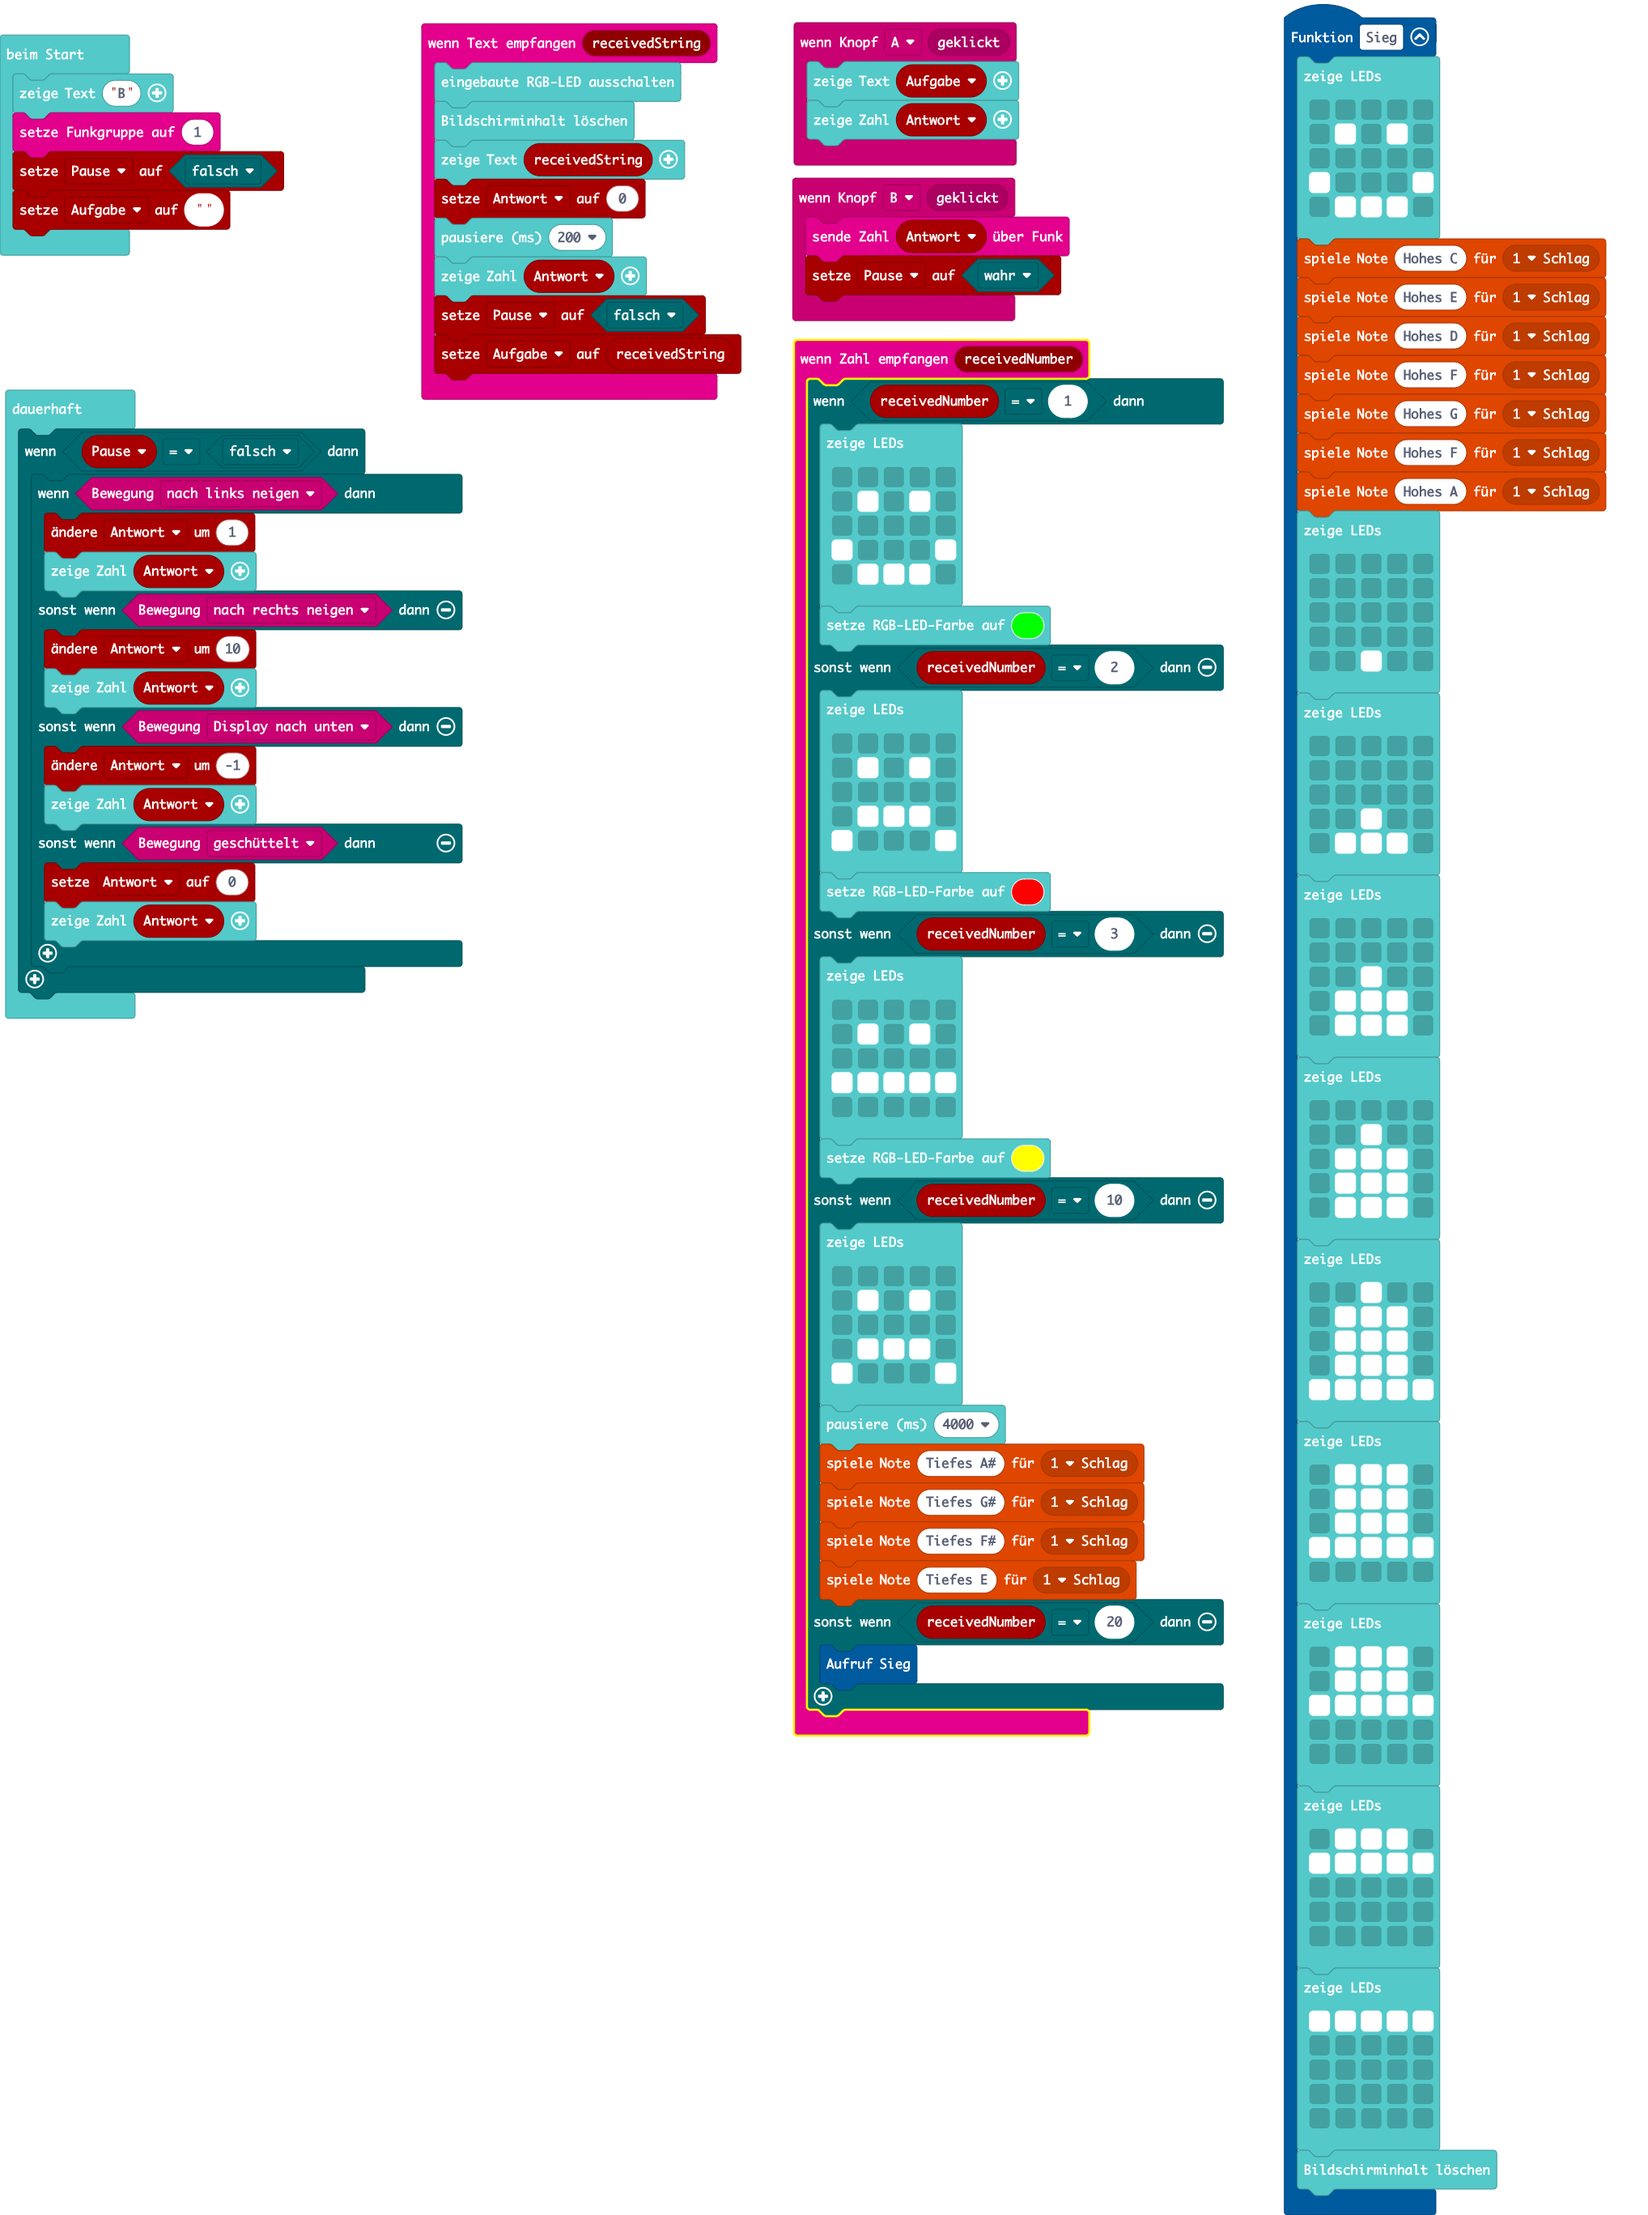
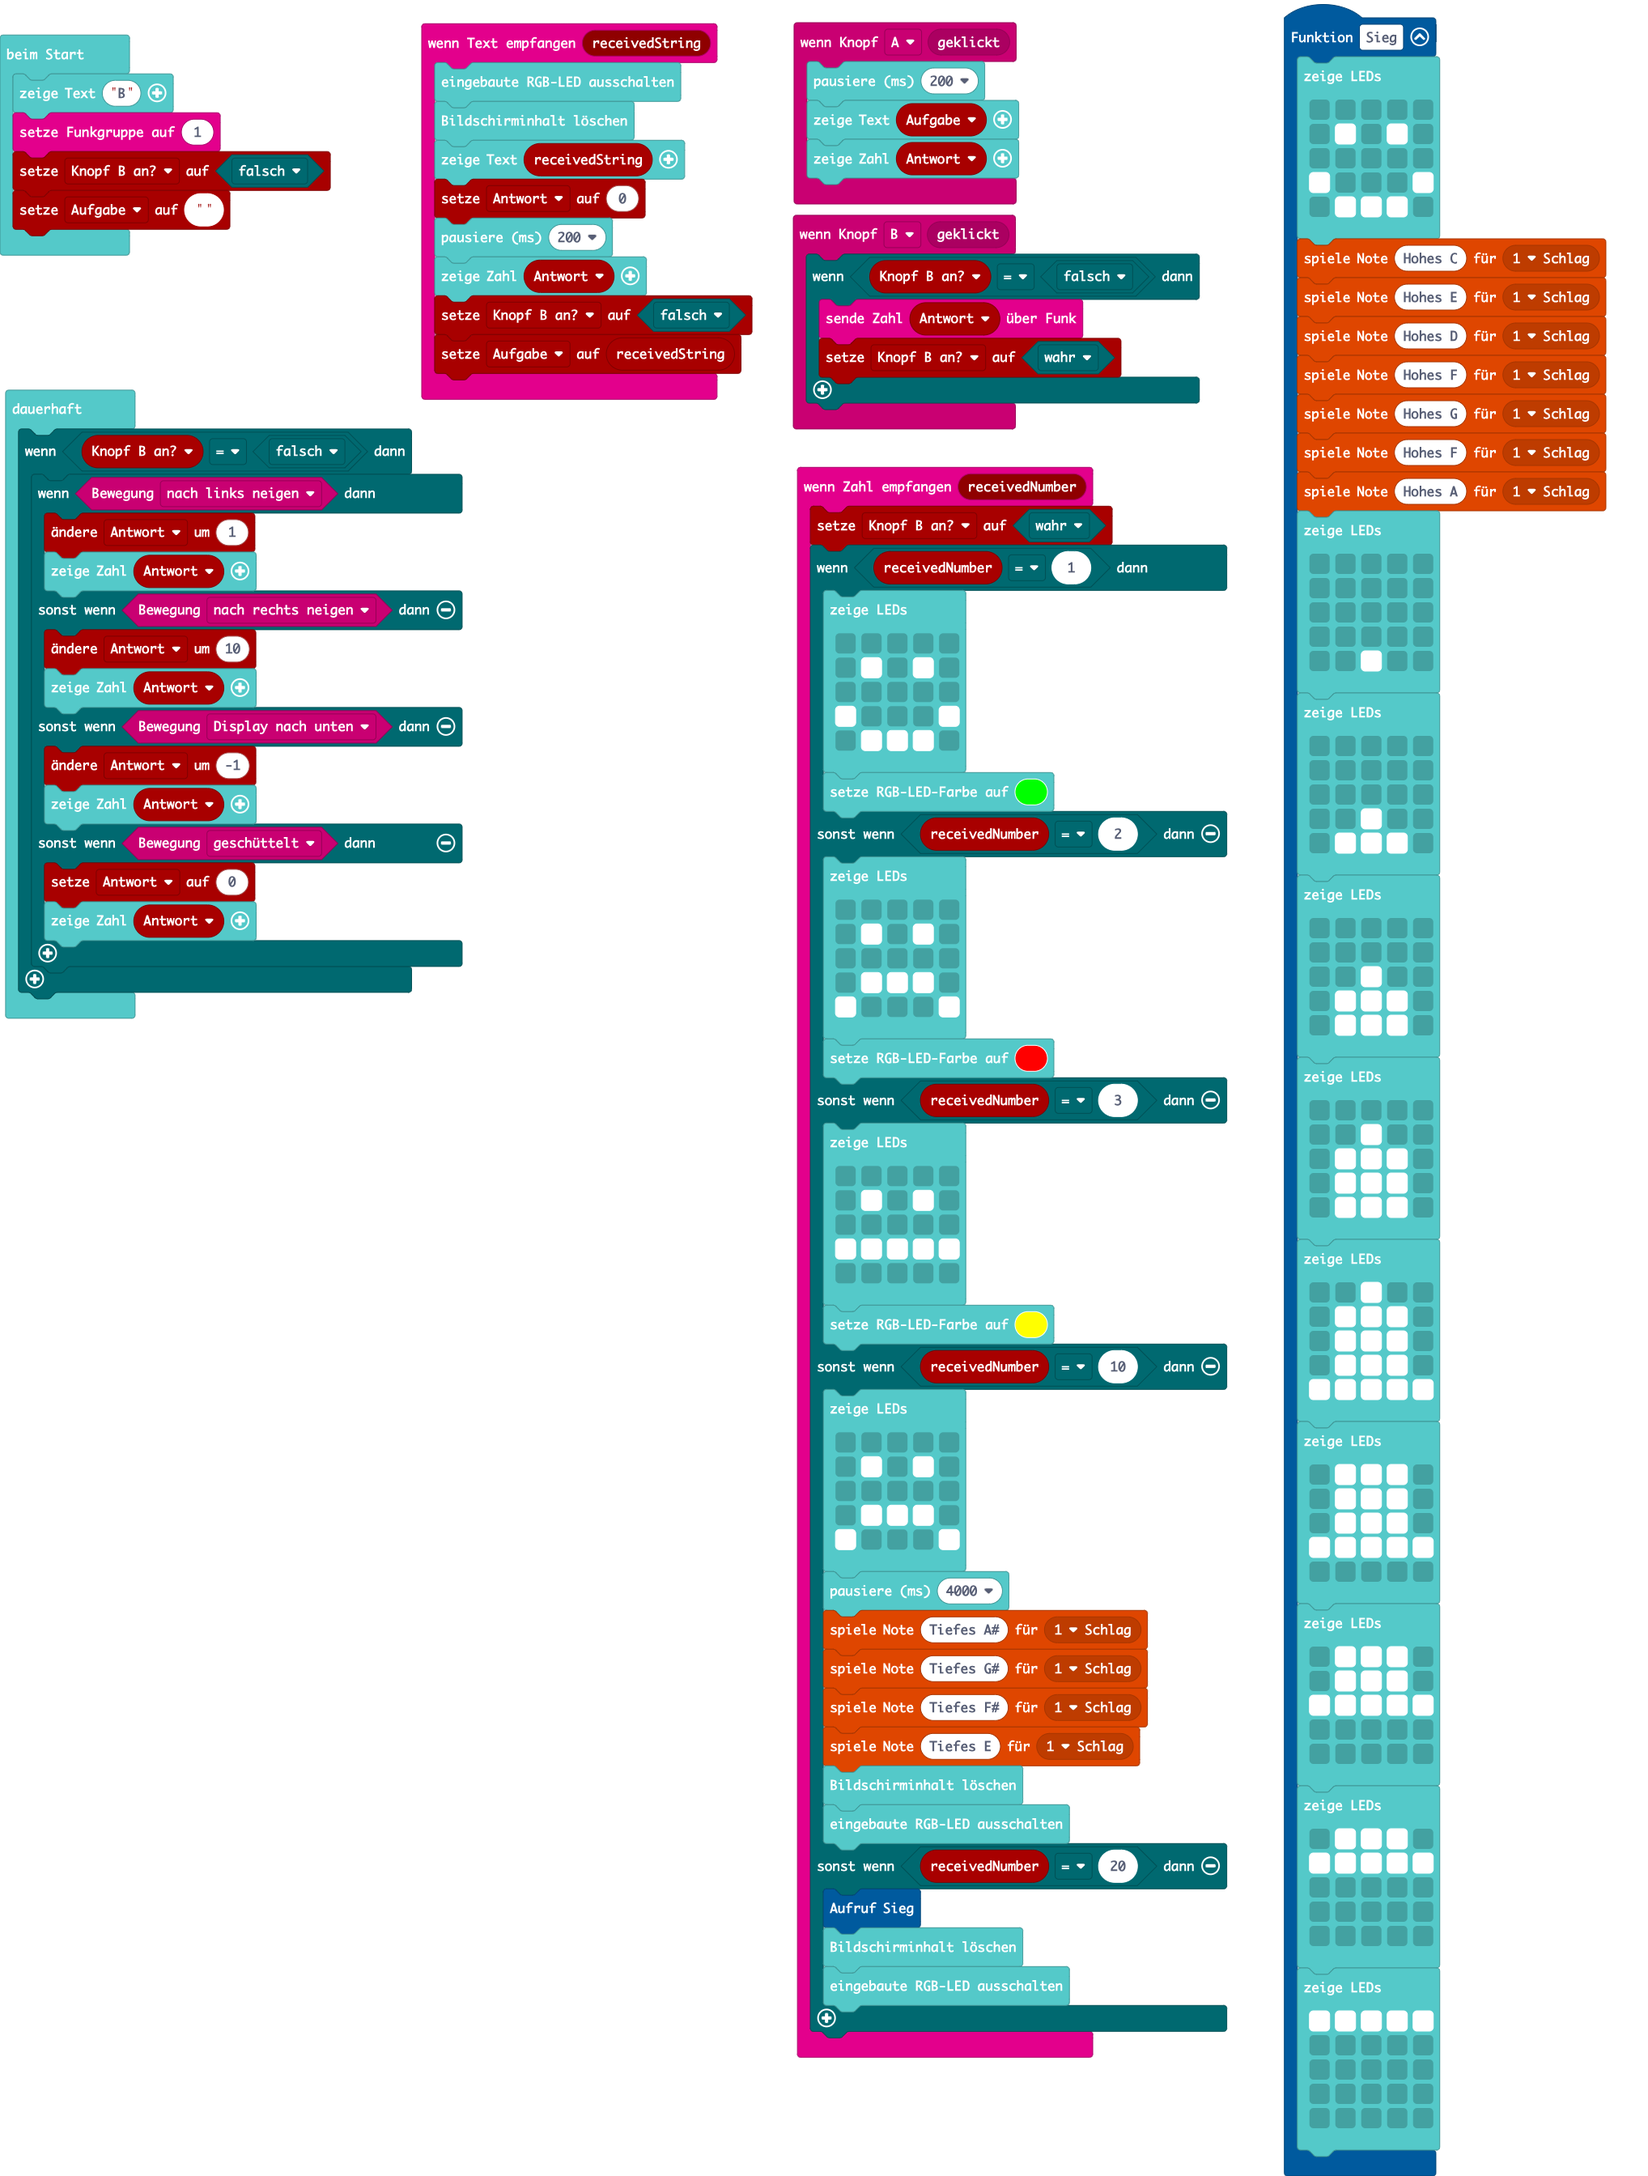
Aktualisiere main.blocks, main.ts

Changed region(s): [[0.0, 0.0, 0.7426, 0.9688], [0.7736, 0.0, 0.9902, 1.0], [0.0, 0.0312, 0.2166, 0.125]]

diff --git a/main.ts b/main.ts
@@ -2,6 +2,7 @@ enum RadioMessage {
     message1 = 49434
 }
 radio.onReceivedNumber(function (receivedNumber) {
+    Knopf_B_an = true
     if (receivedNumber == 1) {
         basic.showLeds(`
             . . . . .
@@ -42,17 +43,24 @@ radio.onReceivedNumber(function (receivedNumber) {
         music.playTone(208, music.beat(BeatFraction.Whole))
         music.playTone(185, music.beat(BeatFraction.Whole))
         music.playTone(165, music.beat(BeatFraction.Whole))
+        basic.clearScreen()
+        basic.turnRgbLedOff()
     } else if (receivedNumber == 20) {
         Sieg()
+        basic.clearScreen()
+        basic.turnRgbLedOff()
     }
 })
 input.onButtonEvent(Button.A, input.buttonEventClick(), function () {
+    basic.pause(200)
     basic.showString(Aufgabe)
     basic.showNumber(Antwort)
 })
 input.onButtonEvent(Button.B, input.buttonEventClick(), function () {
-    radio.sendNumber(Antwort)
-    Pause = true
+    if (Knopf_B_an == false) {
+        radio.sendNumber(Antwort)
+        Knopf_B_an = true
+    }
 })
 function Sieg () {
     basic.showLeds(`
@@ -132,7 +140,6 @@ function Sieg () {
         . . . . .
         . . . . .
         `)
-    basic.clearScreen()
 }
 radio.onReceivedString(function (receivedString) {
     basic.turnRgbLedOff()
@@ -141,18 +148,18 @@ radio.onReceivedString(function (receivedString) {
     Antwort = 0
     basic.pause(200)
     basic.showNumber(Antwort)
-    Pause = false
+    Knopf_B_an = false
     Aufgabe = receivedString
 })
 let Antwort = 0
 let Aufgabe = ""
-let Pause = false
+let Knopf_B_an = false
 basic.showString("B")
 radio.setGroup(1)
-Pause = false
+Knopf_B_an = false
 Aufgabe = ""
 basic.forever(function () {
-    if (Pause == false) {
+    if (Knopf_B_an == false) {
         if (input.isGesture(Gesture.TiltLeft)) {
             Antwort += 1
             basic.showNumber(Antwort)
